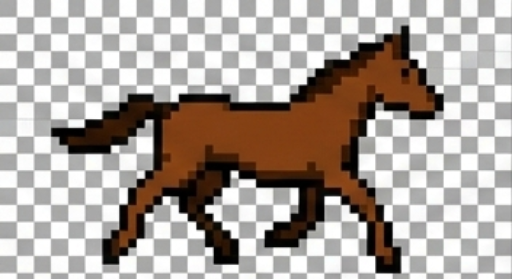
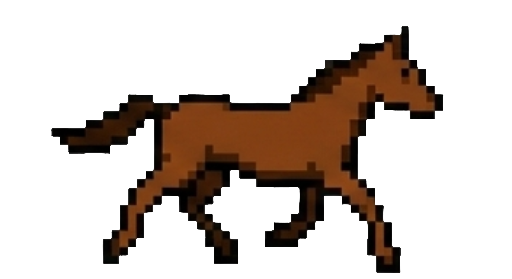
Improved UI for horse in sign in screen

diff --git a/frontend/components/RunningHorse.tsx b/frontend/components/RunningHorse.tsx
@@ -2,13 +2,15 @@ import { useEffect, useRef, useState, useCallback } from "react";
 import {
   Animated,
   Dimensions,
-  Image,
   ImageSourcePropType,
+  Pressable,
   StyleSheet,
   View,
 } from "react-native";
 
-const FRAMES: ImageSourcePropType[] = [
+/* ───────── Sprite sets ───────── */
+
+const ORIGINAL_FRAMES: ImageSourcePropType[] = [
   require("@/assets/images/horse_animation/original/tile_0.png"),
   require("@/assets/images/horse_animation/original/tile_1.png"),
   require("@/assets/images/horse_animation/original/tile_2.png"),
@@ -27,99 +29,217 @@ const FRAMES: ImageSourcePropType[] = [
   require("@/assets/images/horse_animation/original/tile_15.png"),
 ];
 
+/*
+const BROWN_HORSE_FRAMES: ImageSourcePropType[] = [
+  require("@/assets/images/horse_animation/brown_horse/tile_0.png"),
+  require("@/assets/images/horse_animation/brown_horse/tile_1.png"),
+  require("@/assets/images/horse_animation/brown_horse/tile_2.png"),
+  require("@/assets/images/horse_animation/brown_horse/tile_3.png"),
+  require("@/assets/images/horse_animation/brown_horse/tile_4.png"),
+  require("@/assets/images/horse_animation/brown_horse/tile_5.png"),
+  require("@/assets/images/horse_animation/brown_horse/tile_6.png"),
+  require("@/assets/images/horse_animation/brown_horse/tile_7.png"),
+  require("@/assets/images/horse_animation/brown_horse/tile_8.png"),
+  require("@/assets/images/horse_animation/brown_horse/tile_9.png"),
+  require("@/assets/images/horse_animation/brown_horse/tile_10.png"),
+  require("@/assets/images/horse_animation/brown_horse/tile_11.png"),
+  require("@/assets/images/horse_animation/brown_horse/tile_12.png"),
+  require("@/assets/images/horse_animation/brown_horse/tile_13.png"),
+  require("@/assets/images/horse_animation/brown_horse/tile_14.png"),
+  require("@/assets/images/horse_animation/brown_horse/tile_15.png"),
+];
+
+const GOLDEN_HORSE_FRAMES: ImageSourcePropType[] = [
+  require("@/assets/images/horse_animation/golden_horse/tile_0.png"),
+  require("@/assets/images/horse_animation/golden_horse/tile_1.png"),
+  require("@/assets/images/horse_animation/golden_horse/tile_2.png"),
+  require("@/assets/images/horse_animation/golden_horse/tile_3.png"),
+  require("@/assets/images/horse_animation/golden_horse/tile_4.png"),
+  require("@/assets/images/horse_animation/golden_horse/tile_5.png"),
+  require("@/assets/images/horse_animation/golden_horse/tile_6.png"),
+  require("@/assets/images/horse_animation/golden_horse/tile_7.png"),
+  require("@/assets/images/horse_animation/golden_horse/tile_8.png"),
+  require("@/assets/images/horse_animation/golden_horse/tile_9.png"),
+  require("@/assets/images/horse_animation/golden_horse/tile_10.png"),
+  require("@/assets/images/horse_animation/golden_horse/tile_11.png"),
+  require("@/assets/images/horse_animation/golden_horse/tile_12.png"),
+  require("@/assets/images/horse_animation/golden_horse/tile_13.png"),
+  require("@/assets/images/horse_animation/golden_horse/tile_14.png"),
+  require("@/assets/images/horse_animation/golden_horse/tile_15.png"),
+];
+
+const SPOTTED_HORSE_FRAMES: ImageSourcePropType[] = [
+  require("@/assets/images/horse_animation/spotted_horse/tile_0.png"),
+  require("@/assets/images/horse_animation/spotted_horse/tile_1.png"),
+  require("@/assets/images/horse_animation/spotted_horse/tile_2.png"),
+  require("@/assets/images/horse_animation/spotted_horse/tile_3.png"),
+  require("@/assets/images/horse_animation/spotted_horse/tile_4.png"),
+  require("@/assets/images/horse_animation/spotted_horse/tile_5.png"),
+  require("@/assets/images/horse_animation/spotted_horse/tile_6.png"),
+  require("@/assets/images/horse_animation/spotted_horse/tile_7.png"),
+  require("@/assets/images/horse_animation/spotted_horse/tile_8.png"),
+  require("@/assets/images/horse_animation/spotted_horse/tile_9.png"),
+  require("@/assets/images/horse_animation/spotted_horse/tile_10.png"),
+  require("@/assets/images/horse_animation/spotted_horse/tile_11.png"),
+  require("@/assets/images/horse_animation/spotted_horse/tile_12.png"),
+  require("@/assets/images/horse_animation/spotted_horse/tile_13.png"),
+  require("@/assets/images/horse_animation/spotted_horse/tile_14.png"),
+  require("@/assets/images/horse_animation/spotted_horse/tile_15.png"),
+];
+
+const WHITE_HORSE_FRAMES: ImageSourcePropType[] = [
+  require("@/assets/images/horse_animation/white_horse/tile_0.png"),
+  require("@/assets/images/horse_animation/white_horse/tile_1.png"),
+  require("@/assets/images/horse_animation/white_horse/tile_2.png"),
+  require("@/assets/images/horse_animation/white_horse/tile_3.png"),
+  require("@/assets/images/horse_animation/white_horse/tile_4.png"),
+  require("@/assets/images/horse_animation/white_horse/tile_5.png"),
+  require("@/assets/images/horse_animation/white_horse/tile_6.png"),
+  require("@/assets/images/horse_animation/white_horse/tile_7.png"),
+  require("@/assets/images/horse_animation/white_horse/tile_8.png"),
+  require("@/assets/images/horse_animation/white_horse/tile_9.png"),
+  require("@/assets/images/horse_animation/white_horse/tile_10.png"),
+  require("@/assets/images/horse_animation/white_horse/tile_11.png"),
+  require("@/assets/images/horse_animation/white_horse/tile_12.png"),
+  require("@/assets/images/horse_animation/white_horse/tile_13.png"),
+  require("@/assets/images/horse_animation/white_horse/tile_14.png"),
+  require("@/assets/images/horse_animation/white_horse/tile_15.png"),
+];
+*/
+
+// For now, only use original. Uncomment above and add to this array to cycle through different horses per spawn.
+const HORSE_SETS: ImageSourcePropType[][] = [
+  ORIGINAL_FRAMES,
+  // BROWN_HORSE_FRAMES,
+  // GOLDEN_HORSE_FRAMES,
+  // SPOTTED_HORSE_FRAMES,
+  // WHITE_HORSE_FRAMES,
+];
+
 const SPRITE_WIDTH = 80;
 const SPRITE_HEIGHT = 50;
-const FRAME_INTERVAL = 60; // ms per sprite frame
-const CROSSING_DURATION = 3000; // ms to cross the screen
+const FRAME_INTERVAL = 60;
+const RUN_TO_CENTER_DURATION = 2000;
+const RUN_OFF_SCREEN_DURATION = 1500;
+const RESPAWN_DELAY = 1000;
 
-interface RunningHorseProps {
-  position: "top" | "bottom";
-  /** Delay in ms before the run starts */
-  delay: number;
-  /** Called when the horse finishes running off screen */
-  onFinished?: () => void;
-  /** When true, the horse runs and animates. When false, nothing renders. */
-  running: boolean;
-}
+// Animation phases:
+// "entering"   – horse runs from left edge to center
+// "idle"       – horse runs in place at center, waiting for tap
+// "exiting"    – horse runs from center to off-screen right
+// "hidden"     – horse is invisible, waiting to respawn
+type Phase = "entering" | "idle" | "exiting" | "hidden";
 
-export default function RunningHorse({
-  position,
-  delay,
-  onFinished,
-  running,
-}: RunningHorseProps) {
+export default function RunningHorse() {
   const screenWidth = Dimensions.get("window").width;
-  const translateX = useRef(new Animated.Value(0)).current;
+  const centerX = (screenWidth - SPRITE_WIDTH) / 2;
+
+  const translateX = useRef(new Animated.Value(-SPRITE_WIDTH)).current;
   const [frameIndex, setFrameIndex] = useState(0);
-  const [visible, setVisible] = useState(false);
+  const [phase, setPhase] = useState<Phase>("hidden");
+  const [horseSetIndex, setHorseSetIndex] = useState(0);
   const spriteInterval = useRef<ReturnType<typeof setInterval> | null>(null);
+  const respawnTimer = useRef<ReturnType<typeof setTimeout> | null>(null);
 
-  // Direction: top = left-to-right, bottom = right-to-left
-  const goingRight = position === "top";
-  const startX = goingRight ? -SPRITE_WIDTH : screenWidth;
-  const endX = goingRight ? screenWidth : -SPRITE_WIDTH;
+  const frames = HORSE_SETS[horseSetIndex % HORSE_SETS.length];
 
-  const cleanup = useCallback(() => {
+  const startSpriteLoop = useCallback(() => {
+    if (spriteInterval.current) return;
+    spriteInterval.current = setInterval(() => {
+      setFrameIndex((prev) => (prev + 1) % ORIGINAL_FRAMES.length);
+    }, FRAME_INTERVAL);
+  }, []);
+
+  const stopSpriteLoop = useCallback(() => {
     if (spriteInterval.current) {
       clearInterval(spriteInterval.current);
       spriteInterval.current = null;
     }
   }, []);
 
-  useEffect(() => {
-    if (!running) {
-      setVisible(false);
-      cleanup();
-      return;
+  // Spawn: start the entering animation
+  const spawn = useCallback(() => {
+    setFrameIndex(0);
+    translateX.setValue(-SPRITE_WIDTH);
+    setPhase("entering");
+    startSpriteLoop();
+
+    Animated.timing(translateX, {
+      toValue: centerX,
+      duration: RUN_TO_CENTER_DURATION,
+      useNativeDriver: true,
+    }).start(({ finished }) => {
+      if (finished) {
+        setPhase("idle");
+      }
+    });
+  }, [centerX, translateX, startSpriteLoop]);
+
+  // Exit: run off the right side of the screen
+  const exit = useCallback(() => {
+    setPhase("exiting");
+
+    Animated.timing(translateX, {
+      toValue: screenWidth + SPRITE_WIDTH,
+      duration: RUN_OFF_SCREEN_DURATION,
+      useNativeDriver: true,
+    }).start(({ finished }) => {
+      if (finished) {
+        stopSpriteLoop();
+        setPhase("hidden");
+
+        // Cycle to next horse set for the respawn
+        setHorseSetIndex((prev) => prev + 1);
+
+        // Respawn after delay
+        respawnTimer.current = setTimeout(() => {
+          spawn();
+        }, RESPAWN_DELAY);
+      }
+    });
+  }, [screenWidth, translateX, stopSpriteLoop, spawn]);
+
+  // Handle tap on the horse
+  const handlePress = useCallback(() => {
+    if (phase === "idle") {
+      exit();
     }
+  }, [phase, exit]);
 
-    const timer = setTimeout(() => {
-      setVisible(true);
-      setFrameIndex(0);
-      translateX.setValue(startX);
-
-      // Start sprite cycling
-      spriteInterval.current = setInterval(() => {
-        setFrameIndex((prev) => (prev + 1) % FRAMES.length);
-      }, FRAME_INTERVAL);
-
-      // Slide across screen
-      Animated.timing(translateX, {
-        toValue: endX,
-        duration: CROSSING_DURATION,
-        useNativeDriver: true,
-      }).start(() => {
-        cleanup();
-        setVisible(false);
-        onFinished?.();
-      });
-    }, delay);
+  // Initial spawn on mount
+  useEffect(() => {
+    spawn();
 
     return () => {
-      clearTimeout(timer);
-      cleanup();
+      stopSpriteLoop();
+      if (respawnTimer.current) clearTimeout(respawnTimer.current);
     };
-  }, [running]);
+  }, []);
 
-  if (!visible) return null;
+  if (phase === "hidden") return null;
 
   return (
     <Animated.View
       style={[
         styles.container,
-        position === "top" ? styles.top : styles.bottom,
         { transform: [{ translateX }] },
       ]}
     >
-      <Image
-        source={FRAMES[frameIndex]}
-        style={[
-          styles.sprite,
-          // Flip horizontally when going right-to-left (bottom)
-          !goingRight && { transform: [{ scaleX: -1 }] },
-        ]}
-        resizeMode="contain"
-      />
+      <Pressable onPress={handlePress}>
+        <View style={styles.spriteContainer}>
+          {frames.map((source, i) => (
+            <Animated.Image
+              key={i}
+              source={source}
+              style={[
+                styles.sprite,
+                { opacity: i === frameIndex ? 1 : 0 },
+              ]}
+              resizeMode="contain"
+            />
+          ))}
+        </View>
+      </Pressable>
     </Animated.View>
   );
 }
@@ -127,15 +247,15 @@ export default function RunningHorse({
 const styles = StyleSheet.create({
   container: {
     position: "absolute",
+    top: 40,
     zIndex: 10,
   },
-  top: {
-    top: 40,
-  },
-  bottom: {
-    bottom: 40,
+  spriteContainer: {
+    width: SPRITE_WIDTH,
+    height: SPRITE_HEIGHT,
   },
   sprite: {
+    position: "absolute",
     width: SPRITE_WIDTH,
     height: SPRITE_HEIGHT,
   },

diff --git a/frontend/app/login.tsx b/frontend/app/login.tsx
@@ -1,13 +1,10 @@
 // frontend/app/login.tsx
-import React, { useState, useCallback, useEffect, useRef } from 'react';
-import { View, TextInput, Button, StyleSheet, Alert, Text, useColorScheme, Platform, Pressable } from 'react-native';
-import { supabase } from '../lib/supabase'; // Make sure this path is correct
+import React, { useState } from 'react';
+import { View, TextInput, StyleSheet, Alert, Text, useColorScheme, Platform, Pressable } from 'react-native';
+import { supabase } from '../lib/supabase';
 import { useRouter } from 'expo-router';
 import Colors from "@/constants/Colors";
 import RunningHorse from "@/components/RunningHorse";
-
-// Animation phases: "top" -> "bottom" -> "waiting" -> "top" ...
-type AnimPhase = "top" | "bottom" | "waiting";
 
 export default function Login() {
   const router = useRouter();
@@ -17,31 +14,6 @@ export default function Login() {
   const [email, setEmail] = useState('');
   const [password, setPassword] = useState('');
   const [loading, setLoading] = useState(false);
-
-  // Horse animation state
-  const [phase, setPhase] = useState<AnimPhase>("top");
-  const [cycleKey, setCycleKey] = useState(0); // bump to re-trigger
-  const waitTimer = useRef<ReturnType<typeof setTimeout> | null>(null);
-
-  useEffect(() => {
-    // Start the first cycle
-    setPhase("top");
-    return () => {
-      if (waitTimer.current) clearTimeout(waitTimer.current);
-    };
-  }, []);
-
-  const onTopFinished = useCallback(() => {
-    setPhase("bottom");
-  }, []);
-
-  const onBottomFinished = useCallback(() => {
-    setPhase("waiting");
-    waitTimer.current = setTimeout(() => {
-      setCycleKey((k) => k + 1);
-      setPhase("top");
-    }, 5000);
-  }, []);
 
   // 1. Sign In Function
   async function signInWithEmail() {
@@ -91,13 +63,7 @@ export default function Login() {
 
   return (
     <View style={styles.container}>
-      <RunningHorse
-        key={`top-${cycleKey}`}
-        position="top"
-        delay={0}
-        running={phase === "top"}
-        onFinished={onTopFinished}
-      />
+      <RunningHorse />
 
       <Text style={styles.header}>Horse Index Login</Text>
       <TextInput
@@ -124,13 +90,6 @@ export default function Login() {
         <Text style={styles.signUpText}>Sign Up</Text>
       </Pressable>
 
-      <RunningHorse
-        key={`bottom-${cycleKey}`}
-        position="bottom"
-        delay={1000}
-        running={phase === "bottom"}
-        onFinished={onBottomFinished}
-      />
     </View>
   );
 }
